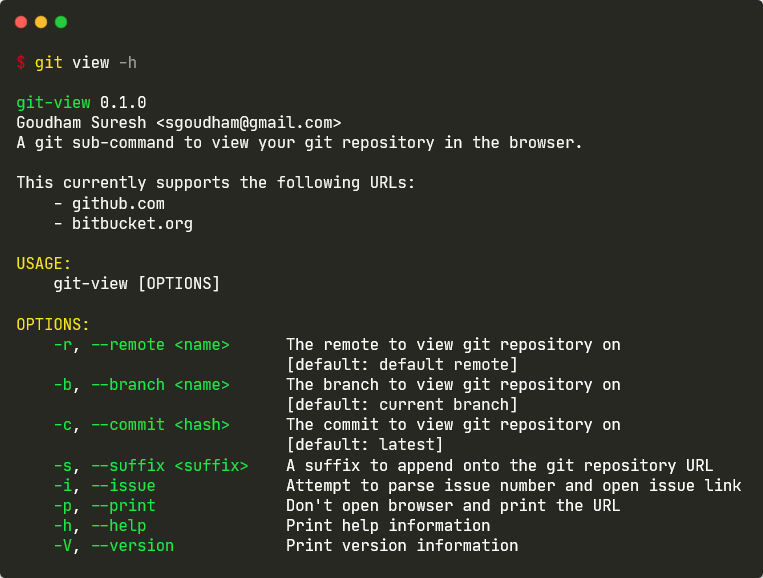
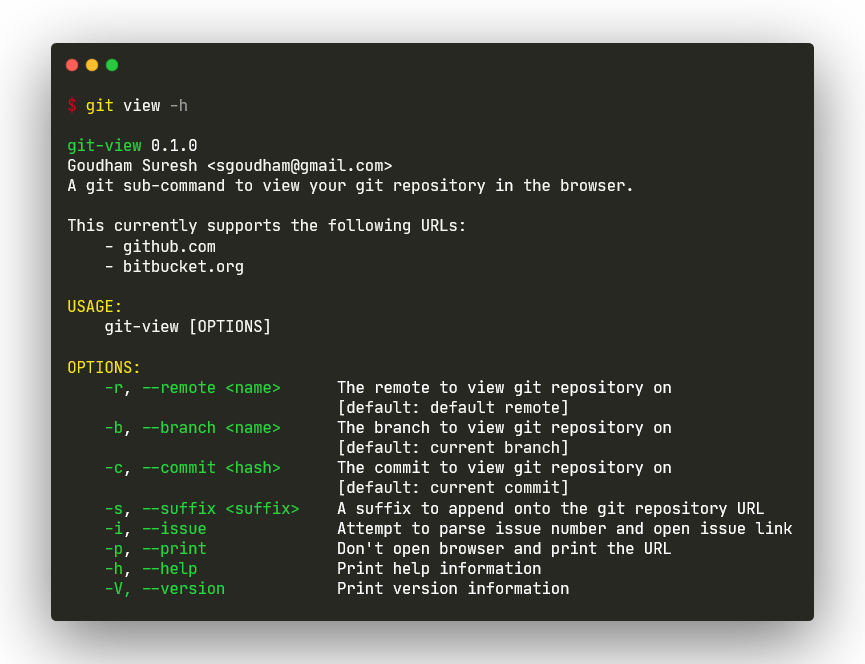
fix: Change commit from 'latest' to 'current'

diff --git a/src/lib.rs b/src/lib.rs
@@ -225,7 +225,7 @@ impl<'a> GitView<'a> {
 
         // Handle commit flag
         if let Some(commit) = self.commit {
-            if commit == "latest" {
+            if commit == "current" {
                 let commit_hash = match git.get_current_commit()? {
                     GitOutput::Ok(hash) => Ok(hash),
                     GitOutput::Err(err) => Err(AppError::new(ErrorType::CommandFailed, err)),
@@ -770,7 +770,7 @@ mod lib_tests {
 
         #[test]
         fn is_latest_commit() {
-            let handler = GitView::builder().with_commit("latest").build();
+            let handler = GitView::builder().with_commit("current").build();
             let url = Url::new("https", Domain::GitHub, "sgoudham/git-view");
             let expected_final_url = "https://github.com/sgoudham/git-view/tree/commit_hash";
             let mut mock = MockGitTrait::default();

diff --git a/src/bin/git-view.rs b/src/bin/git-view.rs
@@ -1,6 +1,6 @@
 use std::panic::set_hook;
 
-use clap::{command, crate_authors, crate_description, crate_version, Arg, Command, ErrorKind};
+use clap::{command, crate_authors, crate_version, Arg, Command, ErrorKind};
 use git_view::Git;
 use git_view::GitView;
 
@@ -44,11 +44,11 @@ This currently supports the following URLs:
         )
         .arg(
             Arg::new("commit")
-                .long_help("The commit to view git repository on\n[default: latest]")
+                .long_help("The commit to view git repository on\n[default: current commit]")
                 .short('c')
                 .long("commit")
                 .value_name("hash")
-                .default_missing_value("latest")
+                .default_missing_value("current")
                 .conflicts_with_all(&["remote", "branch"])
                 .display_order(3),
         )
